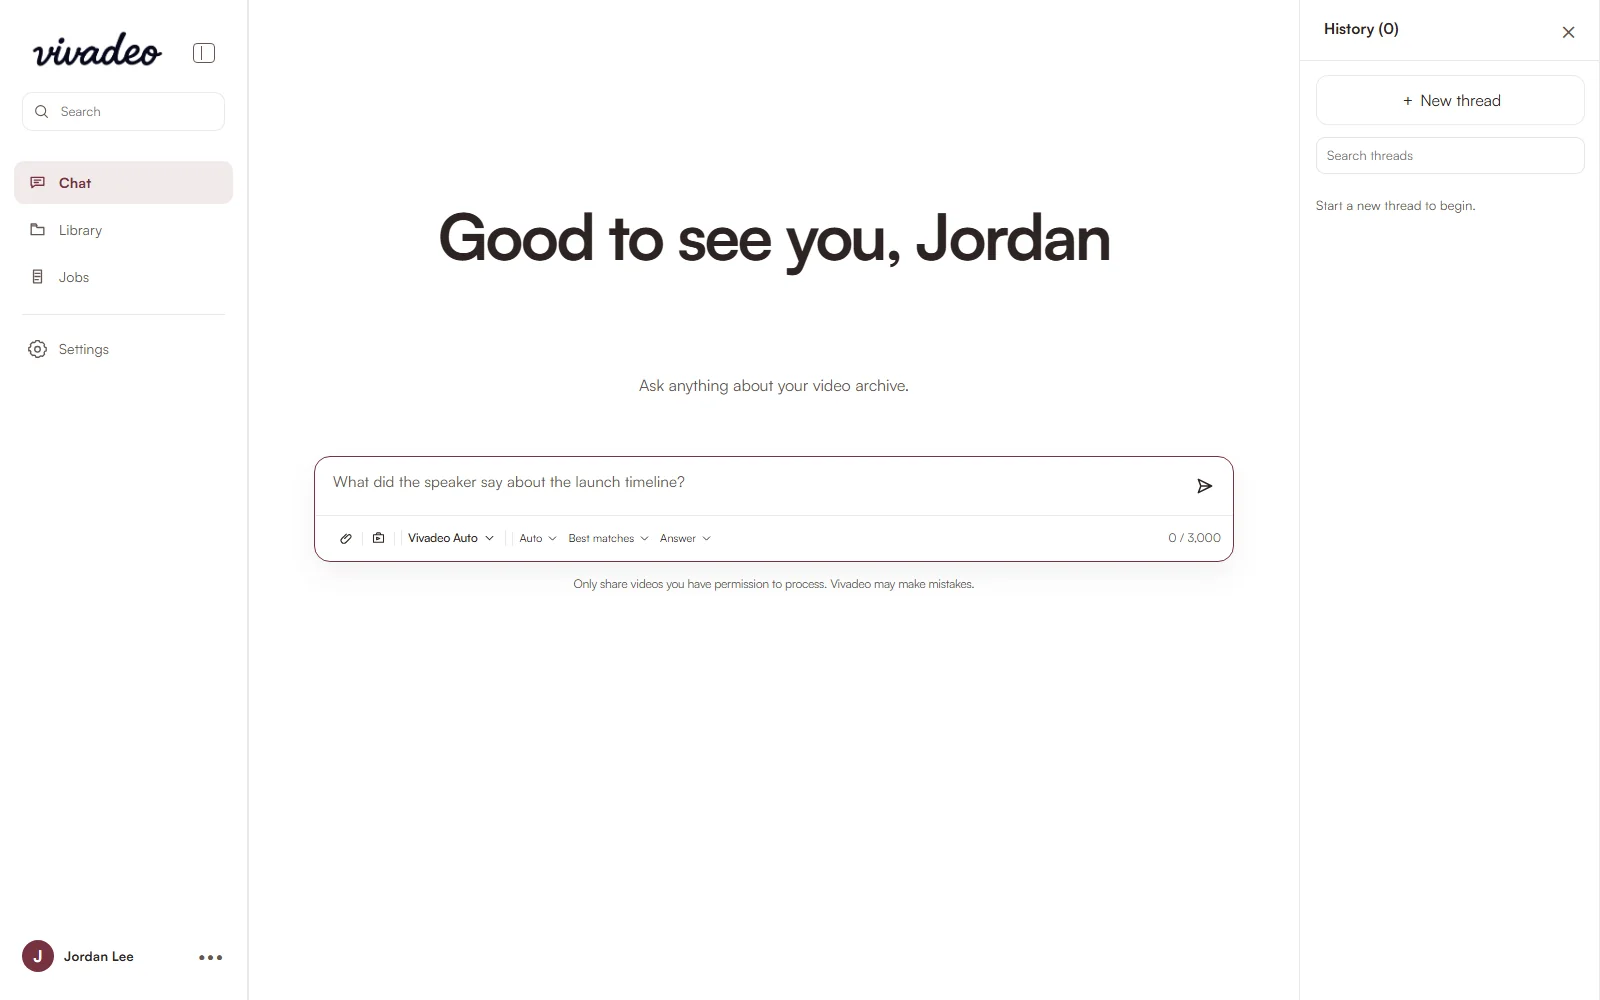
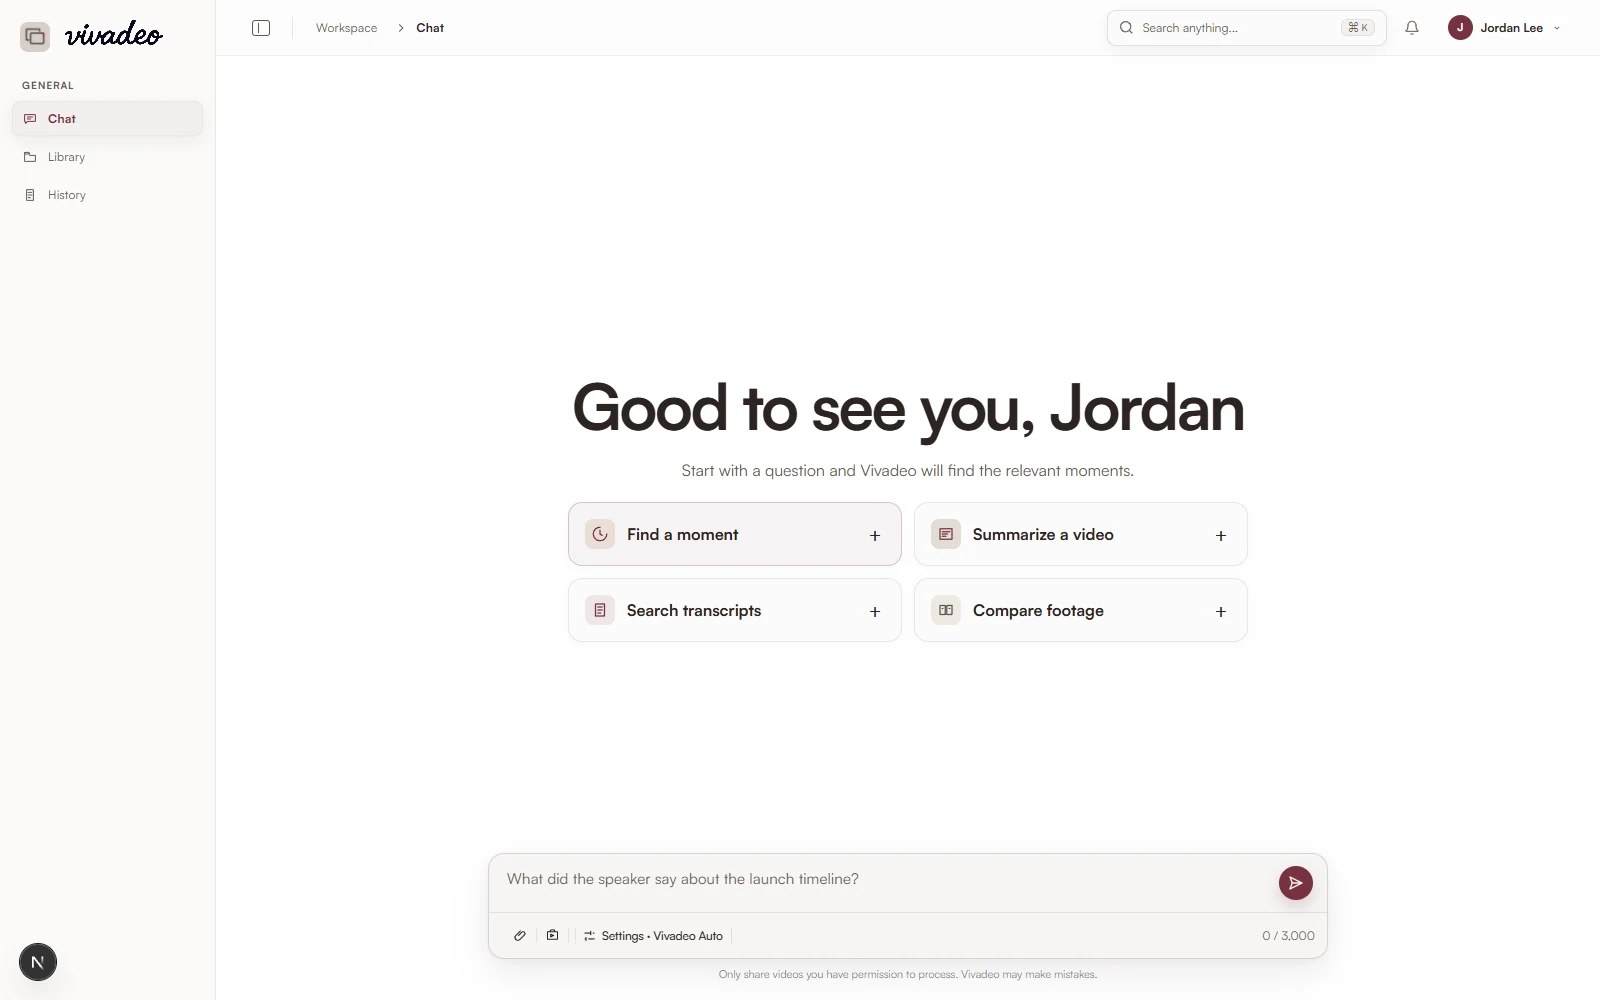
update solutions screenshot

diff --git a/.agents/skills/playwright-visual-verification/SKILL.md b/.agents/skills/playwright-visual-verification/SKILL.md
@@ -29,7 +29,7 @@ Use the running development app at `http://localhost:3000`. Do not build images 
    });
    ```
 
-5. Create a temporary user through the real sign-up UI so Better Auth creates the credential correctly. Immediately set only that test user's `email_verified` value to `TRUE` in the development PostgreSQL container, confirm the update, then sign in through the real UI. Do not wait for or retrieve a verification email. Read the container's database name and user programmatically without printing credentials. Never print passwords, connection strings, cookies, or API keys.
+5. Reuse an existing dedicated test user before creating another account. Confirm that exact user exists and has `email_verified = TRUE` in the development PostgreSQL database, then sign in through the real UI with its test credentials. Create a temporary user through the sign-up UI only when no reusable test user exists. Read the container's database name and user programmatically without printing passwords, connection strings, cookies, or API keys.
 6. Reproduce the exact user sequence. For timing bugs, repeat the action enough times to cross the failure threshold and wait for each response to finish before continuing.
 7. Capture evidence from the browser, not assumptions from source:
    - viewport screenshot
